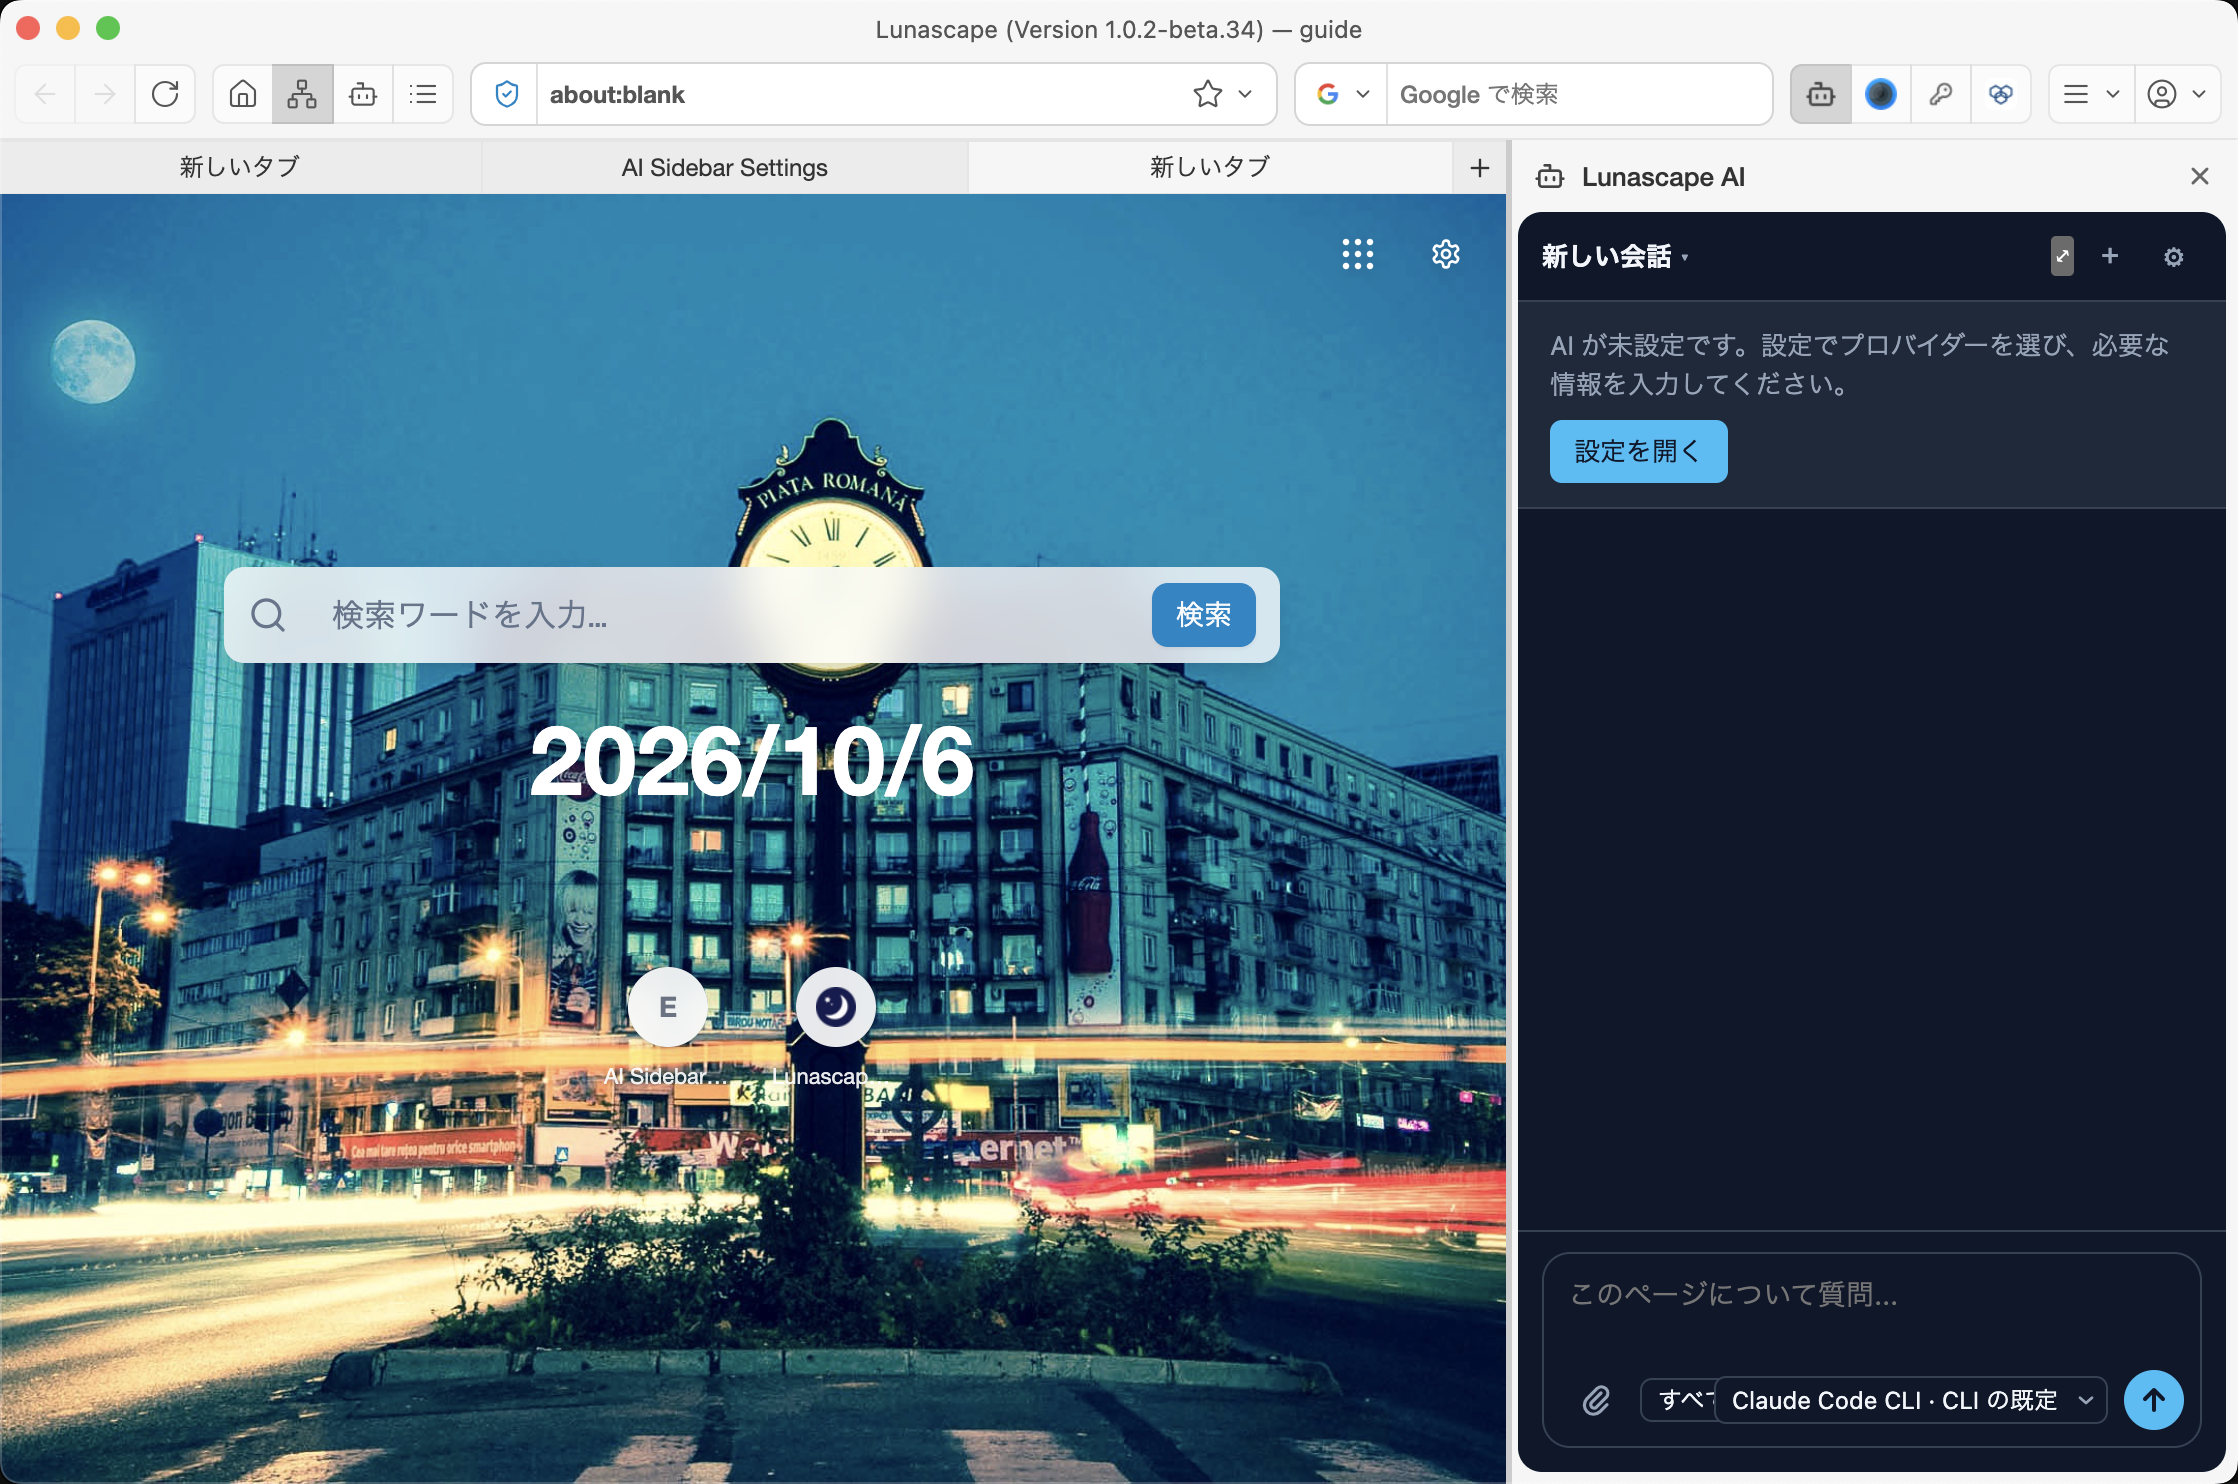
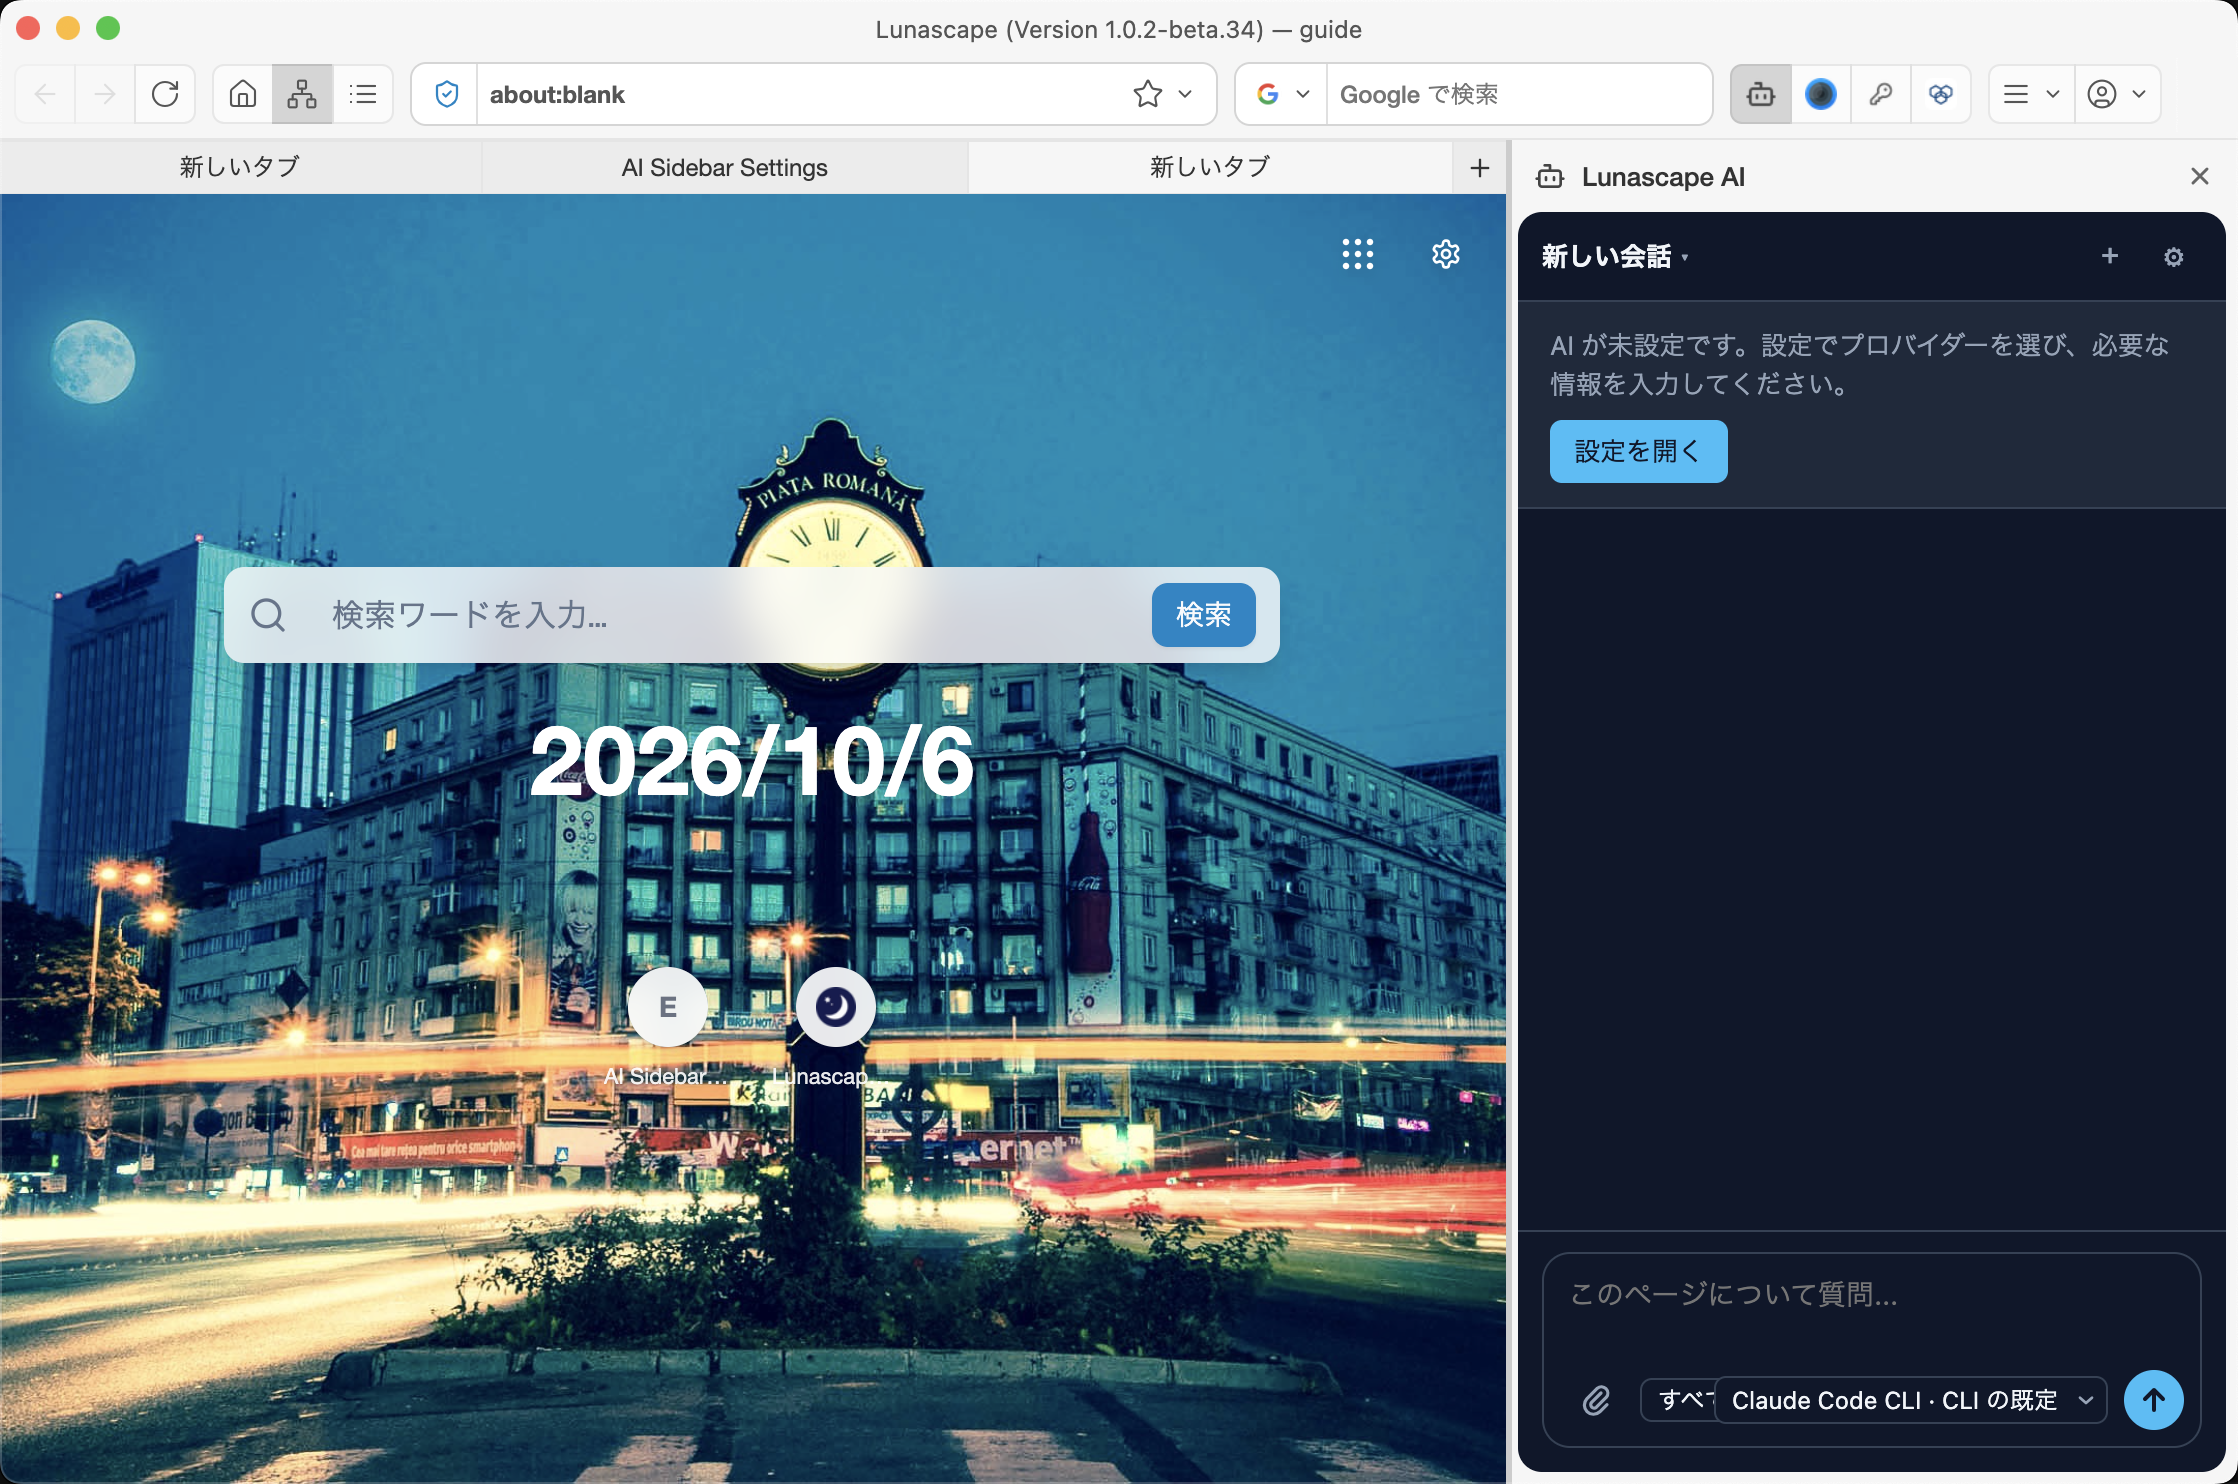
docs(desktop): take the Agents screen out of the guide for now (#7)

diff --git a/desktop/getting-started/screen.md b/desktop/getting-started/screen.md
@@ -14,7 +14,7 @@ Lunascape のウィンドウは、次の要素で構成されています。
 | ツールバー | ウィンドウの一番上です。戻る／進む／再読み込み、ナビゲーションのボタン、アドレスバー、検索バー、各種ボタンが並びます |
 | アドレスバー | URL の入力と、検索キーワードの入力を兼ねます。左端の盾のアイコンから、広告ブロックとサイトデータを操作できます |
 | 検索バー | 検索エンジンを選んで検索します。ツールバーに表示するかどうかは設定で変更できます |
-| サイドバー | ウィンドウの左側です。**ナビゲーション**（ダッシュボード・ウェブ・ダウンロード・エージェント・設定）と、お気に入り（ブックマーク）が並びます |
+| サイドバー | ウィンドウの左側です。**ナビゲーション**（ダッシュボード・ウェブ・ダウンロード・設定）と、お気に入り（ブックマーク）が並びます |
 | タブバー | ページ領域のすぐ上に、開いているタブが並びます。右端の **+** で新しいタブを開きます。ドラッグで並べ替え、ウィンドウ外へ引き出して分離できます |
 | ブックマークバー | よく使うブックマークが並びます。表示・非表示を切り替えられます |
 | サイドパネル | ウィンドウの右側に、Lunascape AI や G.U. Wallet などのパネルを表示します |
@@ -26,7 +26,6 @@ Lunascape のウィンドウは、次の要素で構成されています。
 
 - **ダッシュボード**（家のアイコン）: 新しいタブのダッシュボードを開きます。
 - **ウェブ**（枝分かれのアイコン）: 開いているタブの画面に戻ります。
-- **エージェント**（ロボットのアイコン）: Lunascape AI のエージェント画面を開きます。詳しくは [Lunascape AI](../features/ai/lunascape-ai.md) を参照してください。
 - **サイドバー**（リストのアイコン）: 左のサイドバーを表示・非表示にします。
 
 ボタンの並び順は **設定** > **外観** の **ナビゲーションの並び順** で変えられます。サイドバーの並びも同じ順になります。

diff --git a/desktop/getting-started/i18n/en/screen.md b/desktop/getting-started/i18n/en/screen.md
@@ -7,7 +7,7 @@ The window is made up of these parts.
 | Toolbar | The top of the window: back / forward / reload, the navigation buttons, the address bar, the search bar and the buttons |
 | Address bar | Takes both a URL and a search term. The shield icon at its left end controls ad blocking and site data |
 | Search bar | Searches with a chosen search engine. You can hide it from the settings |
-| Sidebar | The left side of the window: **Navigation** (Dashboard, Web, Downloads, Agents, Settings) and your favorites (bookmarks) |
+| Sidebar | The left side of the window: **Navigation** (Dashboard, Web, Downloads, Settings) and your favorites (bookmarks) |
 | Tab bar | Holds the open tabs, just above the page area. **+** at its right end opens a new tab. Drag to reorder, or drag out of the window to detach |
 | Bookmarks bar | Your frequently used bookmarks. Can be shown or hidden |
 | Side panel | The right side of the window, for panels such as Lunascape AI and G.U. Wallet |
@@ -19,7 +19,6 @@ Next to back, forward and reload, the same entries as the sidebar's **Navigation
 
 - **Dashboard** (house icon): opens the new-tab dashboard.
 - **Web** (branching icon): goes back to your open tabs.
-- **Agents** (robot icon): opens the Lunascape AI agents screen. See [Lunascape AI](../../../features/ai/i18n/en/lunascape-ai.md).
 - **Sidebar** (list icon): shows or hides the sidebar on the left.
 
 Change their order in **Settings** > **Appearance** > **Order of the navigation entries**; the sidebar follows the same order.

diff --git a/desktop/features/browser/tab-groups.md b/desktop/features/browser/tab-groups.md
@@ -7,7 +7,7 @@ navigation:
 
 関連するタブをまとめて、色と名前を付けて管理できます。調べ物や作業の単位でタブを分けたいときに使います。
 
-タブバーには、いま選んでいるグループのタブだけが並びます。ほかのグループのタブは、グループを切り替えると表示されます。初めから、ふだんのタブの **ウェブ** と、Lunascape AI が使う **エージェント** のグループがあります。
+タブバーには、いま選んでいるグループのタブだけが並びます。ほかのグループのタブは、グループを切り替えると表示されます。初めから、ふだんのタブの **ウェブ** のグループがあります。
 
 ## グループを作る
 
@@ -28,7 +28,7 @@ navigation:
 
 タブバー左端のグループ名を押すと、グループの一覧が表示されます。切り替えたいグループを選びます。左のサイドバーの **タブグループ** からも切り替えられます。
 
-<img src="img/tab-group-switcher.png" alt="グループ名を押すと、ウェブ・エージェント・調べ物のグループと、それぞれのタブ数が一覧で表示される" width="360" />
+<img src="img/tab-group-switcher.png" alt="グループ名を押すと、ウェブ・調べ物のグループと、それぞれのタブ数が一覧で表示される" width="360" />
 
 ## グループを操作する
 

diff --git a/desktop/features/ai/i18n/en/lunascape-ai.md b/desktop/features/ai/i18n/en/lunascape-ai.md
@@ -7,7 +7,6 @@ Lunascape AI is the AI assistant built into the browser. Ask it about the page y
 | Where | How to open it | What it is for |
 | --- | --- | --- |
 | Page chat | The robot icon on the right of the toolbar | Ask about the page you are on. A panel opens on the right of the window |
-| Agents | The robot icon on the left of the toolbar, or **Agents** in the sidebar | Talk to the AI full-screen and hand it tasks. The tabs it is using appear on the right |
 
 ## Set it up first
 
@@ -35,7 +34,7 @@ Decide what the AI may do in the browser, item by item, on the **Tool permission
 
 ## Turn it off
 
-Turn off **Lunascape AI** under **System Extensions** in **Settings** > **Extensions**, and the page chat, the agents and their toolbar buttons all go away.
+Turn off **Lunascape AI** under **System Extensions** in **Settings** > **Extensions**, and the page chat and its toolbar button go away.
 
 ## Related topics
 

diff --git a/desktop/features/browser/i18n/en/tab-groups.md b/desktop/features/browser/i18n/en/tab-groups.md
@@ -2,7 +2,7 @@
 
 Keep related tabs together under a name and a colour — one group per thing you are working on.
 
-The tab bar shows only the tabs of the group you have chosen; the others appear when you switch to their group. Two groups are there from the start: **Web** for your everyday tabs, and **Agents** for the tabs Lunascape AI uses.
+The tab bar shows only the tabs of the group you have chosen; the others appear when you switch to their group. The **Web** group, for your everyday tabs, is there from the start.
 
 ## Create a group
 
